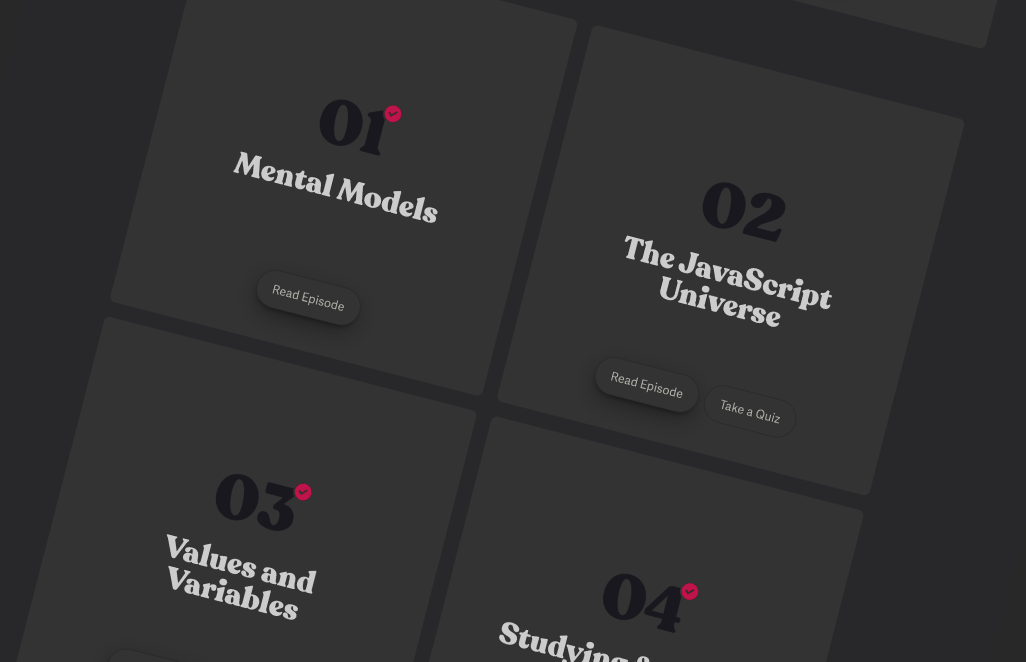
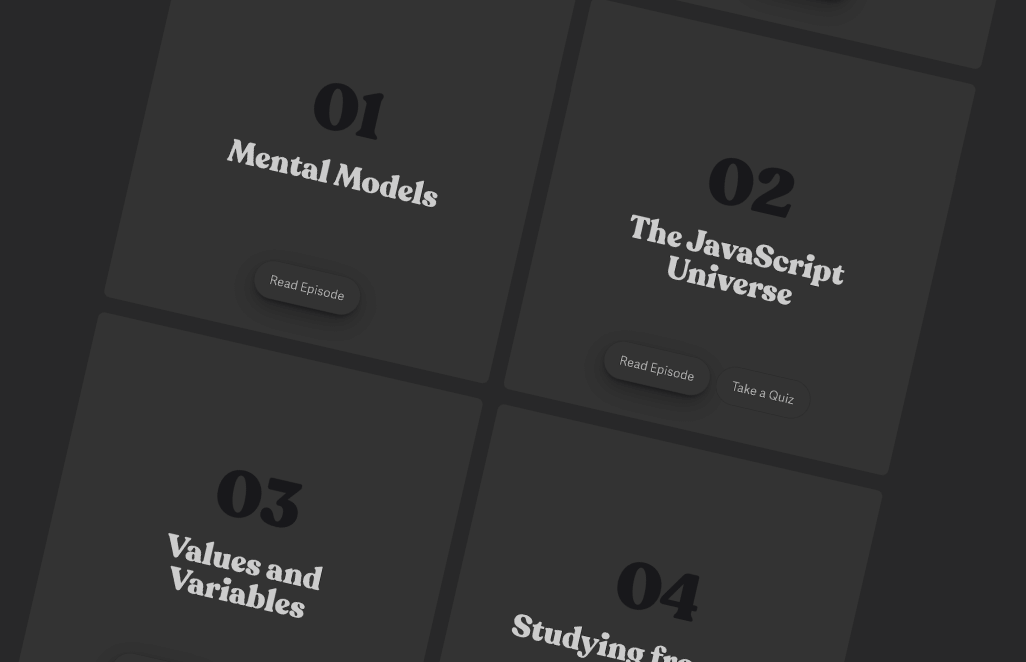
style: update thumbs

diff --git a/src/pages/index.tsx b/src/pages/index.tsx
@@ -124,14 +124,14 @@ export default function Home({projects}: {projects: Project[]}) {
                     width={513 * 2}
                     height={331 * 2}
                     alt={project.title}
-                    className="aspect-[513/331] saturate-0 transition border border-white/5"
+                    className="aspect-[513/331] hover:saturate-100 saturate-0 duration-500 ease-out transition border border-white/5"
                     quality={100}
                     priority
                   />
-                  <div
+                  {/* <div
                     className="bg-white hover:opacity-15 opacity-0 duration-300 transition ease-in-out absolute inset-0 mix-blend-overlay"
                     aria-hidden="true"
-                  />
+                  /> */}
                 </Link>
               )}
               <h3 className="font-medium text-2xl">
